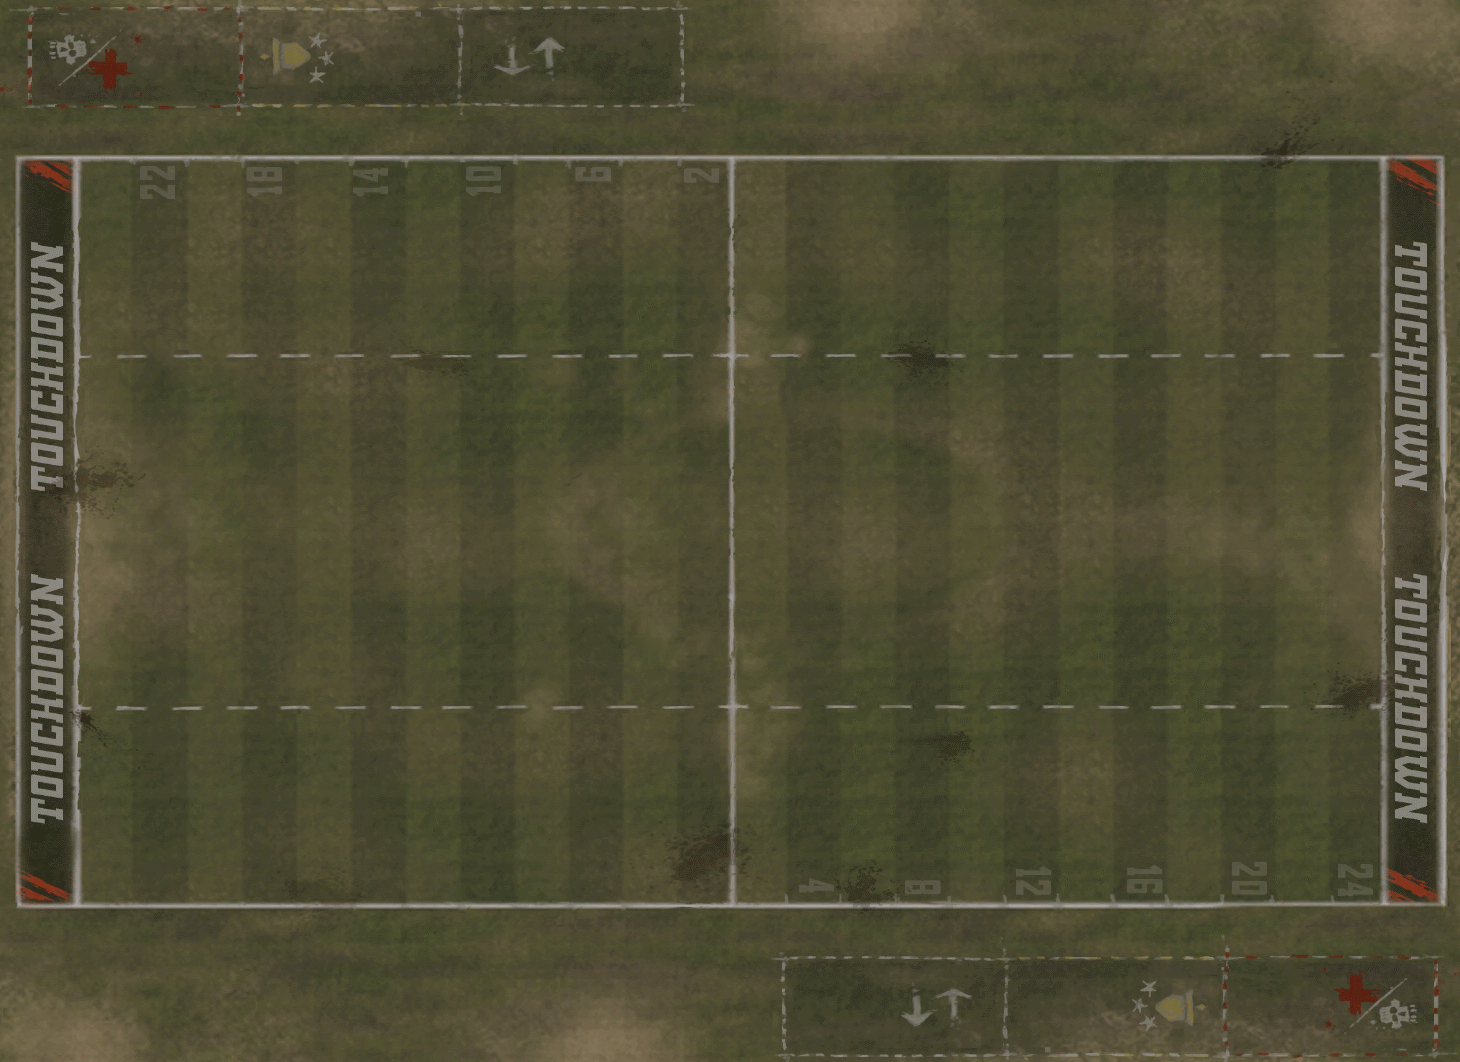
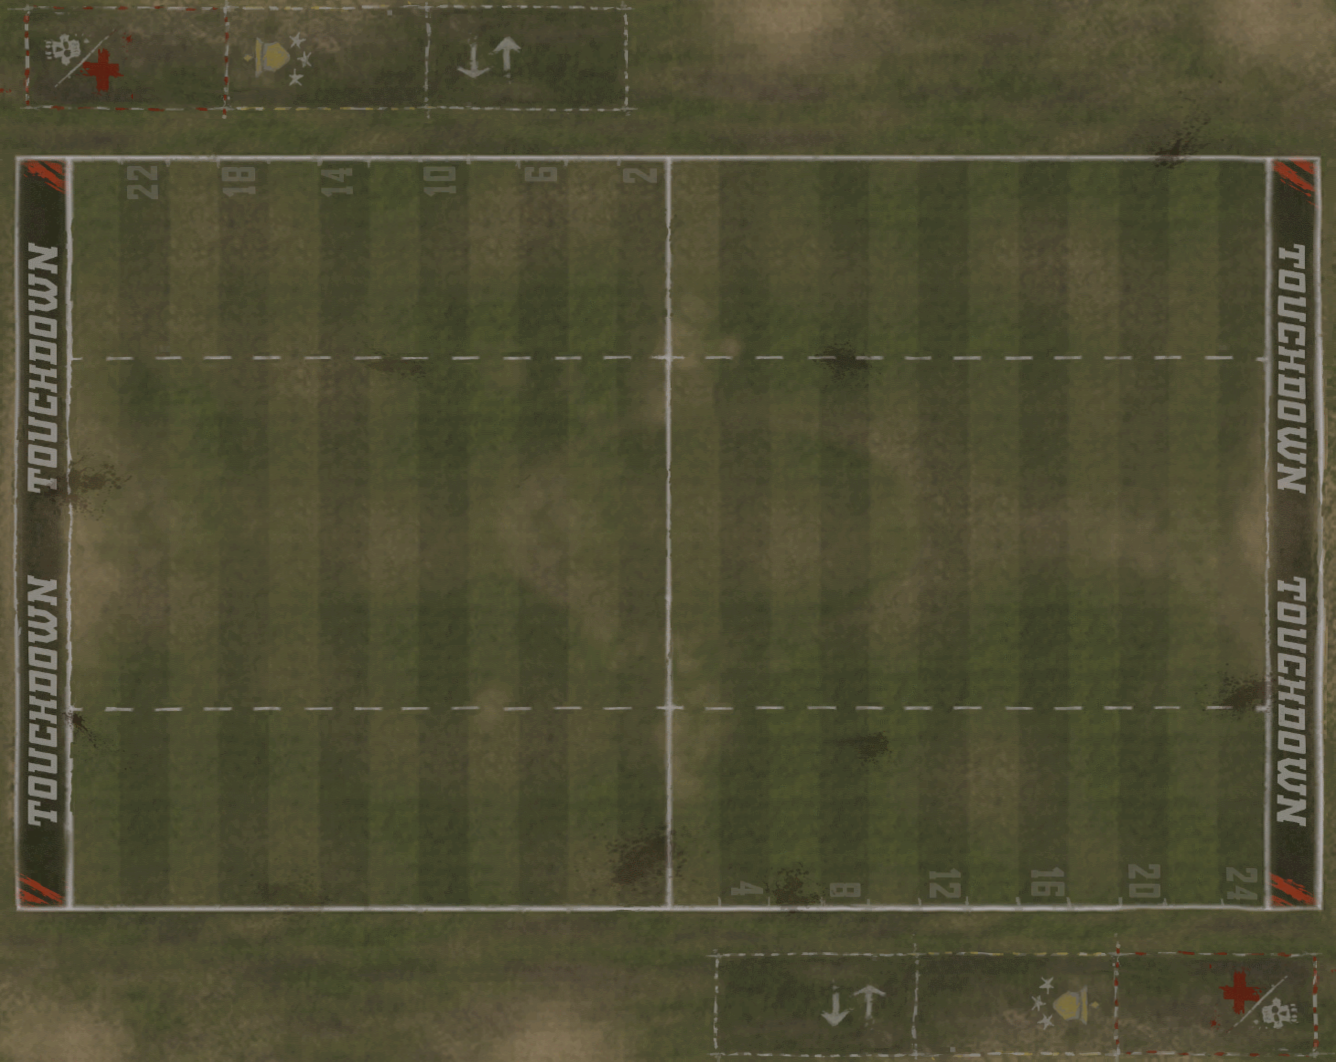
Image-correct the pitch to exactly fit square boxes

diff --git a/src/viewer/AwayBench.svelte b/src/viewer/AwayBench.svelte
@@ -12,9 +12,9 @@
 
 <style>
   .bench {
-    width: 44.5%;
-    right: 1.7%;
-    bottom: 2.5%;
+    width: calc(600/1338*100%);
+    right: calc((1338 - 1316)/1338*100%);
+    bottom: 5%;
     position: absolute;
     display: grid;
     grid-template-columns: repeat(3, auto);

diff --git a/src/viewer/PitchSquare.svelte b/src/viewer/PitchSquare.svelte
@@ -59,7 +59,7 @@
 
 <style>
   .pitch-square {
-    border: 0.05vh dashed rgba(255, 255, 255, 0.31);
+    border: 0.05vh dashed rgba(255, 255, 255, 0.2);
     display: flex;
     justify-content: center;
     align-items: center;

diff --git a/src/viewer/HomeDugout.svelte b/src/viewer/HomeDugout.svelte
@@ -42,7 +42,7 @@
   }
   .dugout {
     width: 100%;
-    height: 14.5%;
+    height: calc(158/1062*100%);
     position: relative;
     color: hsl(0, 0%, 85%);
     font-family: Nuffle;

diff --git a/src/viewer/Pitch.svelte b/src/viewer/Pitch.svelte
@@ -37,8 +37,8 @@
 
 <style>
   .pitch {
-    left: 1.25%;
-    width: 97.5%;
+    left: calc(18/1336*100%);
+    width: calc(1300/1336*100%);
     position: relative;
   }
   .overlay {

diff --git a/src/viewer/CasSquare.svelte b/src/viewer/CasSquare.svelte
@@ -57,6 +57,7 @@
 
 <style>
   .cas-square {
+    border: 0.05vh dashed rgba(255, 255, 255, 0.2);
     display: flex;
     justify-content: center;
     align-items: center;

diff --git a/src/viewer/HomeBench.svelte b/src/viewer/HomeBench.svelte
@@ -12,7 +12,7 @@
 
 <style>
   .bench {
-    width: 44.5%;
+    width: calc(600/1338*100%);
     left: 2.1%;
     top: 4.7%;
     position: absolute;
